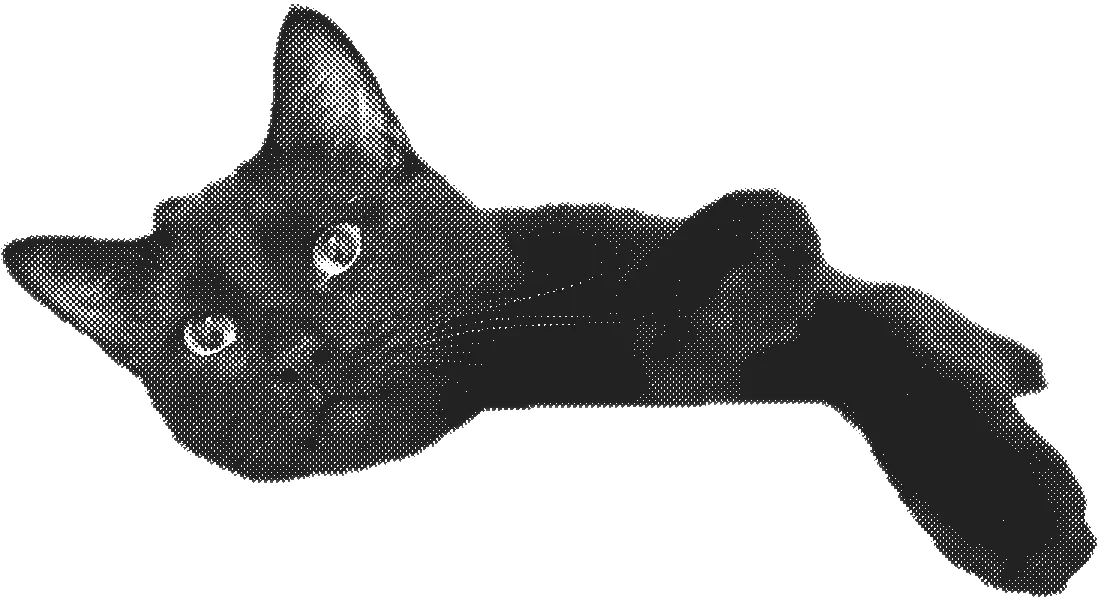
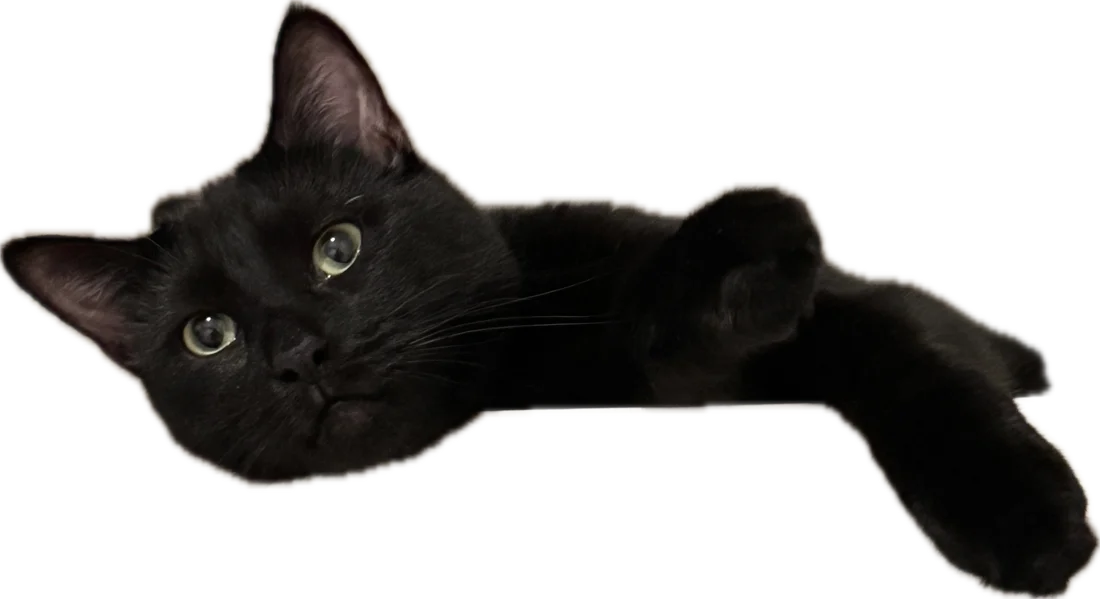
Use full-colour cat in hero

Changed region(s): [[0.0, 0.0, 1.0, 1.0]]

diff --git a/index.html b/index.html
@@ -346,7 +346,7 @@
     <h1>Tianxing Hu <span class="outline">CV</span></h1>
     <p class="tagline">Machine learning for biological systems — representation learning for single-cell and multi-omics data.</p>
     <div><a class="btn" href="#research">View my research ↓</a></div>
-    <img class="hero-cat" src="assets/cat-shelf.webp" width="1100" height="599" alt="Halftone print of a black cat lying on a ledge, one paw hanging over the edge">
+    <img class="hero-cat" src="assets/cat-shelf.webp" width="1100" height="599" alt="A black cat lying on a ledge, one paw hanging over the edge">
   </header>
 
   <main>
